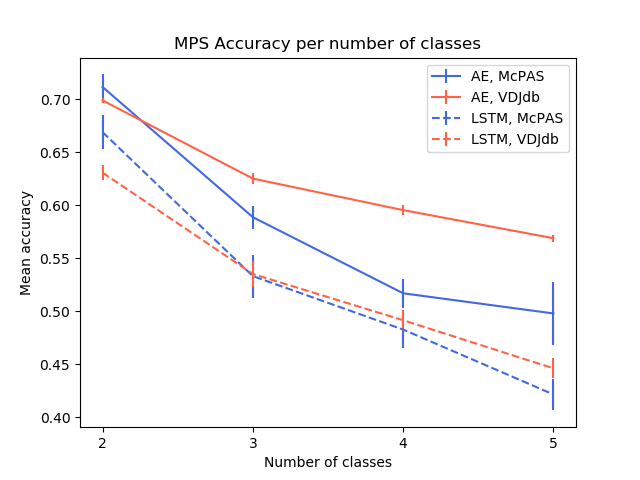
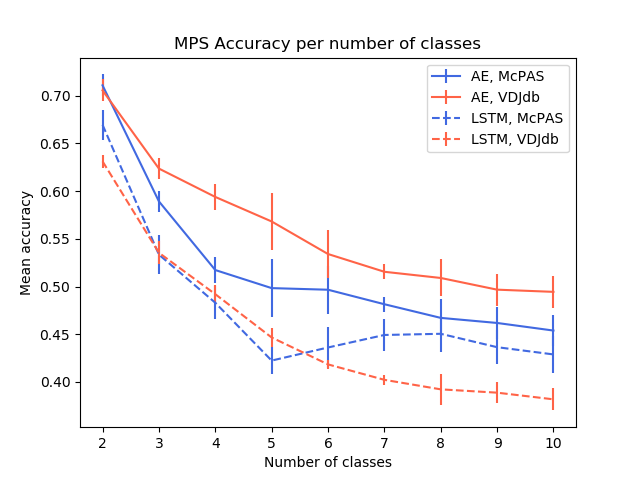
MPS update, united dataset

diff --git a/plots.py b/plots.py
@@ -4,6 +4,7 @@ import matplotlib.pyplot as plt
 import evaluation_methods as eval
 import argparse
 import os
+import ergo_data_loader
 from scipy import stats
 
 
@@ -41,7 +42,7 @@ def spb_auc(args, peps):
 
 # todo nice and coherent colors
 
-
+# do not use it
 def acc_plot():
     # plot errorbar of accuracy per number of classes
     # currently we only take reported results
@@ -81,6 +82,43 @@ def acc_plot():
     plt.errorbar(classes, ae_vdjdb_means, yerr=ae_vdjdb_std, label='AE, VDJdb', color='tomato', linestyle='-')
     plt.errorbar(classes, lstm_mcpas_means, yerr=lstm_mcpas_std, label='LSTM, McPAS', color='royalblue', linestyle='--')
     plt.errorbar(classes, lstm_vdjdb_means, yerr=lstm_vdjdb_std, label='LSTM, VDJdb', color='tomato', linestyle='--')
+    plt.legend()
+    plt.title('MPS Accuracy per number of classes')
+    plt.xlabel('Number of classes')
+    plt.xticks(classes)
+    plt.ylabel('Mean accuracy')
+    plt.show()
+
+
+def mps_acc(args):
+    dir = 'final_results'
+    mkeys = {'ae': 0, 'lstm': 1}
+    dkeys = {'mcpas': 0, 'vdjdb': 1}
+    num_classes = 10
+    iterations = 5
+    acc_matrix = np.zeros((2, 2, num_classes - 1, iterations))
+    for model_type in mkeys.keys():
+        args.model_type = model_type
+        for dataset in dkeys.keys():
+            args.dataset = dataset
+            for iter in range(1, iterations + 1):
+                args.model_file = dir + '/' + '_'.join([model_type, dataset + str(iter) + '.pt'])
+                args.train_data_file = dir + '/' + '_'.join([model_type, dataset, 'train' + str(iter) + '.pickle'])
+                args.test_data_file = dir + '/' + '_'.join([model_type, dataset, 'test' + str(iter) + '.pickle'])
+                model, data = eval.load_model_and_data(args)
+                train_data, test_data = data
+                new_test_tcrs, new_test_peps = eval.extract_new_tcrs_and_peps(train_data, test_data)
+                _, accs = eval.multi_peptide_score(args, model, test_data, new_test_tcrs, num_classes)
+                print(accs)
+                acc_matrix[mkeys[model_type], dkeys[dataset], :, iter - 1] = accs
+    print(acc_matrix)
+    mean = np.mean(acc_matrix, axis=3)
+    std = np.std(acc_matrix, axis=3)
+    classes = range(2, num_classes + 1)
+    plt.errorbar(classes, mean[0, 0], yerr=std[0, 0], label='AE, McPAS', color='royalblue', linestyle='-')
+    plt.errorbar(classes, mean[0, 1], yerr=std[0, 0], label='AE, VDJdb', color='tomato', linestyle='-')
+    plt.errorbar(classes, mean[1, 0], yerr=std[1, 0], label='LSTM, McPAS', color='royalblue', linestyle='--')
+    plt.errorbar(classes, mean[1, 1], yerr=std[1, 1], label='LSTM, VDJdb', color='tomato', linestyle='--')
     plt.legend()
     plt.title('MPS Accuracy per number of classes')
     plt.xlabel('Number of classes')
@@ -207,9 +245,37 @@ def sub_auc():
         plt.errorbar(range(1, len(auc_mean) + 1), auc_mean, yerr=auc_std, label=label,
                      color=color, linestyle=style)
     plt.legend(loc=4, prop={'size': 8})
-    plt.xlabel('Number of samples * 10000')
+    plt.xlabel('Number of samples / 10000')
     plt.ylabel('Mean AUC score')
     plt.title('TPP AUC per number of sub-samples')
+    plt.show()
+
+
+def tcr_per_pep_dist():
+    mcpas_pairs, _, _ = ergo_data_loader.read_data('data/McPAS-TCR.csv', 'mcpas')
+    vdjdb_pairs, _, _ = ergo_data_loader.read_data('data/VDJDB_complete.tsv', 'vdjdb')
+    pep_tcr1 = {}
+    for tcr, pep in mcpas_pairs:
+        try:
+            pep_tcr1[pep[0]] += 1
+        except KeyError:
+            pep_tcr1[pep[0]] = 1
+    tcr_nums1 = sorted([pep_tcr1[pep] for pep in pep_tcr1], reverse=True)
+    pep_tcr2 = {}
+    for tcr, pep in vdjdb_pairs:
+        try:
+            pep_tcr2[pep[0]] += 1
+        except KeyError:
+            pep_tcr2[pep[0]] = 1
+    tcr_nums2 = sorted([pep_tcr2[pep] for pep in pep_tcr2], reverse=True)
+    plt.plot(range(len(tcr_nums1)), np.log(np.array(tcr_nums1)),
+           color='orchid', label='McPAS')
+    plt.plot(range(len(tcr_nums2)), np.log(np.array(tcr_nums2)),
+           color='springgreen', label='VDJdb')
+    plt.ylabel('Log TCRs per peptide')
+    plt.xlabel('Peptide index')
+    plt.title('Number of TCR per peptide')
+    plt.legend()
     plt.show()
 
 
@@ -237,6 +303,8 @@ if __name__ == '__main__':
 
     if args.function == 'acc':
         acc_plot()
+    elif args.function == 'mps':
+        mps_acc(args)
     elif args.function == 'spb_roc':
         peptides = ['GLCTLVAML', 'NLVPMVATV', 'GILGFVFTL']
         spb_roc(args, peptides)
@@ -256,4 +324,6 @@ if __name__ == '__main__':
         mis_pos()
     elif args.function == 'sub':
         sub_auc()
+    elif args.function == 'dist':
+        tcr_per_pep_dist()
 

diff --git a/ERGO.py b/ERGO.py
@@ -90,6 +90,8 @@ def main(args):
         datafile = r'data/McPAS-TCR.csv'
     if args.dataset == 'vdjdb':
         datafile = r'data/VDJDB_complete.tsv'
+    if args.dataset == 'united':
+        datafile = {'mcpas': r'data/McPAS-TCR.csv', 'vdjdb': r'data/VDJDB_complete.tsv'}
     train, test = ergo_data_loader.load_data(datafile, args.dataset, args.sampling,
                                              _protein=args.protein, _hla=args.hla)
     # Save train
@@ -103,7 +105,7 @@ def main(args):
 
     # Save test
     if args.test_data_file == 'auto':
-        dir = 'save_results'
+        dir = 'final_results'
         p_key = 'protein' if args.protein else ''
         args.test_data_file = dir + '/' + '_'.join([args.model_type, args.dataset, args.sampling, p_key, 'test'])
     if args.test_data_file:
@@ -135,7 +137,7 @@ def main(args):
 
     # Save trained model
     if args.model_file == 'auto':
-        dir = 'save_results'
+        dir = 'final_results'
         p_key = 'protein' if args.protein else ''
         args.model_file = dir + '/' + '_'.join([args.model_type, args.dataset, args.sampling, p_key, 'model.pt'])
     if args.model_file:
@@ -161,11 +163,11 @@ def pep_test(args):
     if args.ae_file == 'auto':
         args.ae_file = 'TCR_Autoencoder/tcr_ae_dim_30.pt'
     if args.test_data_file == 'auto':
-        dir = 'save_results'
+        dir = 'final_results'
         p_key = 'protein' if args.protein else ''
         args.test_data_file = dir + '/' + '_'.join([args.model_type, args.dataset, args.sampling, p_key, 'test.pickle'])
     if args.model_file == 'auto':
-        dir = 'save_results'
+        dir = 'final_results'
         p_key = 'protein' if args.protein else ''
         args.model_file = dir + '/' + '_'.join([args.model_type, args.dataset, args.sampling, p_key, 'model.pt'])
 
@@ -253,11 +255,11 @@ def protein_test(args):
     if args.ae_file == 'auto':
         args.ae_file = 'TCR_Autoencoder/tcr_ae_dim_30.pt'
     if args.test_data_file == 'auto':
-        dir = 'save_results'
+        dir = 'final_results'
         p_key = 'protein' if args.protein else ''
         args.test_data_file = dir + '/' + '_'.join([args.model_type, args.dataset, args.sampling, p_key, 'test.pickle'])
     if args.model_file == 'auto':
-        dir = 'save_results'
+        dir = 'final_results'
         p_key = 'protein' if args.protein else ''
         args.model_file = dir + '/' + '_'.join([args.model_type, args.dataset, args.sampling, p_key, 'model.pt'])
 

diff --git a/ergo_data_loader.py b/ergo_data_loader.py
@@ -194,12 +194,23 @@ def get_examples(pairs_file, key, sampling, _protein=False, _hla=False):
 
 
 def load_data(pairs_file, key, sampling, _protein=False, _hla=False):
-    train_pos, train_neg, test_pos, test_neg = get_examples(pairs_file, key, sampling, _protein=_protein, _hla=_hla)
-    train = train_pos + train_neg
-    random.shuffle(train)
-    test = test_pos + test_neg
-    random.shuffle(test)
-    return train, test
+    if key in ['mcpas', 'vdjdb']:
+        train_pos, train_neg, test_pos, test_neg = get_examples(pairs_file, key, sampling, _protein=_protein, _hla=_hla)
+        train = train_pos + train_neg
+        random.shuffle(train)
+        test = test_pos + test_neg
+        random.shuffle(test)
+        return train, test
+    elif key == 'united':
+        mcpas_train_pos, mcpas_train_neg, mcpas_test_pos, mcpas_test_neg = \
+            get_examples(pairs_file['mcpas'], 'mcpas', sampling, _protein=_protein, _hla=_hla)
+        vdjdb_train_pos, vdjdb_train_neg, vdjdb_test_pos, vdjdb_test_neg = \
+            get_examples(pairs_file['vdjdb'], 'vdjdb', sampling, _protein=_protein, _hla=_hla)
+        train = mcpas_train_pos + mcpas_train_neg + vdjdb_train_pos + vdjdb_train_neg
+        random.shuffle(train)
+        test = mcpas_test_pos + mcpas_test_neg + vdjdb_test_pos + vdjdb_test_neg
+        random.shuffle(test)
+        return train, test
 
 
 def check(file, key, sampling, _protein, _hla):

diff --git a/evaluation_methods.py b/evaluation_methods.py
@@ -171,9 +171,16 @@ def multi_peptide_score(args, model, test_data, new_tcrs, number_of_peps):
     # print(most_freq)
     score_matrix = np.zeros((len(tcrs), number_of_peps))
     for i in range(number_of_peps):
-        # predict all new test TCRs with peps 1...k
-        tcrs, _, scores = predict(args, model, tcrs, [most_freq[i]] * len(tcrs))
-        score_matrix[:, i] = scores
+        try:
+            # predict all new test TCRs with peps 1...k
+            tcrs, _, scores = predict(args, model, tcrs, [most_freq[i]] * len(tcrs))
+            score_matrix[:, i] = scores
+        except ValueError:
+            pass
+        except IndexError:
+            pass
+        except TypeError:
+            pass
     # true peptide targets indexes
     true_pred = list(map(lambda pep: most_freq.index(pep) if pep in most_freq else number_of_peps + 1, targets))
     accs = []
@@ -290,4 +297,3 @@ if __name__ == '__main__':
 
 
 # python evaluation_methods.py load lstm mcpas specific cuda:1 --model_file=auto --train_data_file=auto --test_data_file=auto
-

diff --git a/NNI/ERGO_nni.py b/NNI/ERGO_nni.py
@@ -3,8 +3,7 @@ import nni
 import torch
 import pickle
 import argparse
-import ae_nni as ae
-import lstm_nni as lstm
+from NNI import lstm_nni as lstm, ae_nni as ae
 import ergo_data_loader
 import numpy as np
 from ERGO_models import AutoencoderLSTMClassifier, DoubleLSTMClassifier

diff --git a/subsample/subsample_scheduler.py b/subsample/subsample_scheduler.py
@@ -74,3 +74,5 @@ if __name__ == '__main__':
     elif args.function == 'sample':
         sample_data(args)
 
+
+# nohup python subsample/subsample_scheduler.py train ae mcpas specific 1

diff --git a/mis_pos/mis_pos_scheduler.py b/mis_pos/mis_pos_scheduler.py
@@ -71,3 +71,4 @@ if __name__ == '__main__':
     elif args.function == 'sample':
         sample_data(args)
 
+# nohup python mis_pos/mis_pos_scheduler.py train ae mcpas specific 3
